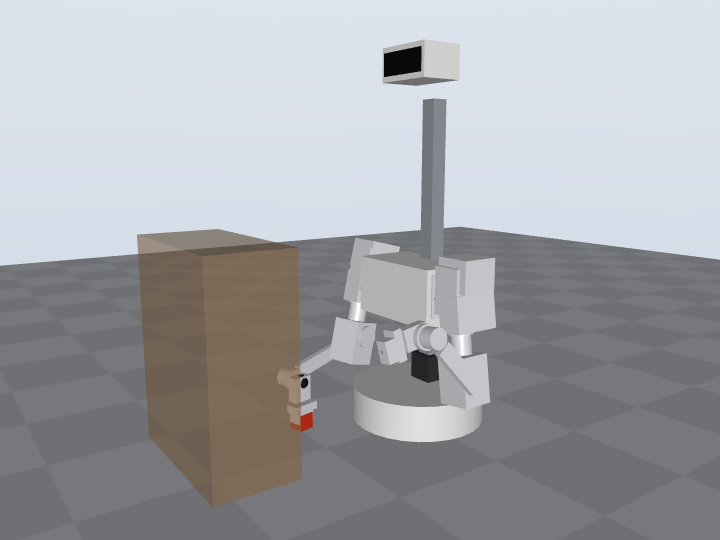
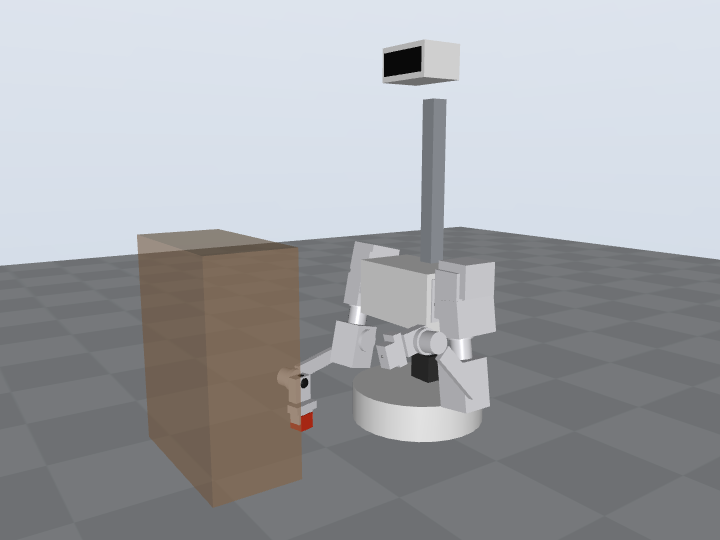
Loop 33: yaw range +-150 -> +-70 deg (reach 99%, bimanual 4/4, margin 1.52x kept); yaw crossed in torsion over 0.24 m; cable routing 6/6; scorecard 39/1
Claude-Session: https://claude.ai/code/session_01RwSoTh3JZTTiPE9Ryxfm6D

diff --git a/rnd/harness.py b/rnd/harness.py
@@ -34,7 +34,9 @@ JOINTS = [
     # pitch: bundle from the torso e-tray through the pitch shaft bore (Ø30) to the detach plug on the ferrule
     ("shoulder pitch", 260, 0.20, (22, 60), "inside the torso, around the pitch shaft between the bracket and the torso wall"),
     ("shoulder roll", 115, 0.10, (22, 50), "roll link, around the roll shaft between the walls and the clevis arms"),
-    ("upper-arm yaw", 300, 0.20, (0, 0), "NO ROOM today: the belt runs between the yaw plates, and the plates sit 2 mm from the roll pulley and the arm flange"),
+    # loop 33: yaw limited to ±70° (reach 99 % and bimanual 4/4 unchanged; ±60° loses 3 of 4 bimanual tasks). The bundle
+    # twists in torsion between a clamp at the roll-link top and one on the elbow-housing floor: free length ≈ 0.24 m
+    ("upper-arm yaw", 140, 0.24, (0, 0), "torsion: clamp at the roll-link top and on the elbow-housing floor (yaw shaft + neck + housing run); no spiral (no room: belt between the yaw plates)"),
     ("elbow", 150, 0.13, (22, 50), "elbow housing, +Y side, between cassette plate B (y 26) and the +Y wall (y 53)"),
     ("wrist pitch", 220, 0.06, (16, 30), "wrist can end, around the DM-J4310 (Ø57 can: little room)"),
     ("wrist roll", 360, 0.03, (14, 24), "palm, around the STS3215 wrist-roll servo"),

diff --git a/rnd/electrical.py b/rnd/electrical.py
@@ -92,7 +92,7 @@ def report(d=BASELINE):
           "**Cable routing (loop 32, rnd/harness.py):** torsion through the short shaft bores can't absorb the joint ranges (cable rated ~±360°/m). "
           "Every joint crossing uses a **clock-spring spiral** (S ≈ 0.6 m) in an annular cavity around the joint axis. No slip rings. "
           "D12 keeps the stiffest cable at Ø2.2 mm: the wrist camera is MIPI-CSI on a flat-flex through the wrist, with a USB bridge on the forearm. "
-          "Open: the yaw joint has no spiral cavity yet (see the queue). See [harness.md](harness.md)."]
+          "The yaw (limited to ±70°, loop 33) is crossed in torsion over ≈ 0.24 m between clamps. See [harness.md](harness.md)."]
     return "\n".join(L), cont, peak
 
 

diff --git a/rnd/twin.py b/rnd/twin.py
@@ -24,7 +24,7 @@ from .params import BASELINE, Design, act  # noqa: E402
 JR = {  # joint ranges (deg). Conventions: arm hangs straight down at 0.
     # pitch about +Y: NEGATIVE swings the arm forward/up.  roll: positive = abduct outward.
     # elbow about +Y: NEGATIVE bends the forearm forward.
-    "pitch": (-200, 60), "roll": (-15, 100), "yaw": (-150, 150),
+    "pitch": (-200, 60), "roll": (-15, 100), "yaw": (-70, 70),          # yaw ±150 → ±70 (loop 33, D12: torsion crossing; reach 99 %, bimanual 4/4 kept)
     "elbow": (-150, 0), "wpitch": (-110, 110), "wroll": (-180, 180)}
 
 

diff --git a/docs/rnd/spring.md b/docs/rnd/spring.md
@@ -2,17 +2,17 @@
 
 6000 random right-arm poses across the full joint ranges (MuJoCo twin, static). A pitch-only balancer τ = K·sin(pitch) (zero-free-length spring + cable: Anglepoise / Herder gravity balancing) is fitted to the arm's own weight.
 
-**Design K = 4.50 N·m** (spring torque at the horizontal arm; `params.arm.spring_k_nm`). A least-squares fit to the bare arm gives 4.26 N·m; a K sweep showed 4.0 minimises the 95th-percentile motor torque for a 0.5 kg typical payload (0.5 kg: 5.2 N·m; 1 kg: 7.3 N·m). The spring preload is screw-adjustable (Anglepoise precedent), so K can be re-tuned per task.
+**Design K = 4.50 N·m** (spring torque at the horizontal arm; `params.arm.spring_k_nm`). A least-squares fit to the bare arm gives 4.06 N·m; a K sweep showed 4.0 minimises the 95th-percentile motor torque for a 0.5 kg typical payload (0.5 kg: 5.2 N·m; 1 kg: 7.3 N·m). The spring preload is screw-adjustable (Anglepoise precedent), so K can be re-tuned per task.
 
 | Motor torque needed at the pitch joint | 95th percentile | Worst pose |
 |---|---|---|
 | No spring, 1 kg payload | 12.0 N·m | 16.2 N·m |
-| Spring, arm only | 4.3 N·m | 7.9 N·m |
-| **Spring, 1 kg payload** | **8.6 N·m** | **11.7 N·m** |
+| Spring, arm only | 4.4 N·m | 7.3 N·m |
+| **Spring, 1 kg payload** | **8.5 N·m** | **11.7 N·m** |
 | Joint capacity (GIM6010-8 × 3.0 belt), rated / peak | 14.2 | 31.3 |
 
-The spring cancels **40%** of the arm's self-weight torque at the 95th percentile (arm_sizing assumed 85 % everywhere).
-Margin with payload: rated / 95th pct **1.66×**, peak / worst pose **2.67×**.
+The spring cancels **38%** of the arm's self-weight torque at the 95th percentile (arm_sizing assumed 85 % everywhere).
+Margin with payload: rated / 95th pct **1.67×**, peak / worst pose **2.67×**.
 
 ## Every arm joint over the whole workspace (1 kg payload, static, balancer on)
 
@@ -20,10 +20,10 @@ The planar check in [arm sizing](arm_sizing.md) only looks at a straight horizon
 
 | Joint | Actuator × ratio | Need: 95th pct / worst (N·m) | Rated / peak | Margin rated/p95 | Margin peak/worst |
 |---|---|---|---|---|---|
-| shoulder_pitch | GIM6010-8 × 3 | 8.5 / 11.6 | 14.2 / 31.3 | 1.68 | 2.70 ✅ |
-| shoulder_roll | GIM6010-8 × 4 | 12.6 / 16.3 | 19.0 / 41.8 | 1.50 | 2.56 ✅ |
-| upper_yaw | GIM6010-8 × 2 | 5.3 / 7.0 | 9.5 / 20.9 | 1.80 | 2.99 ✅ |
+| shoulder_pitch | GIM6010-8 × 3 | 8.6 / 12.1 | 14.2 / 31.3 | 1.66 | 2.60 ✅ |
+| shoulder_roll | GIM6010-8 × 4 | 12.5 / 16.3 | 19.0 / 41.8 | 1.52 | 2.56 ✅ |
+| upper_yaw | GIM6010-8 × 2 | 5.1 / 7.0 | 9.5 / 20.9 | 1.84 | 3.00 ✅ |
 | elbow | GIM6010-8 × 2 | 6.2 / 7.0 | 9.5 / 20.9 | 1.54 | 2.99 ✅ |
-| wrist_pitch | DM-J4310-2EC_V1.1 × 1 | 1.7 / 1.8 | 3.0 / 7.0 | 1.74 | 3.86 ✅ |
+| wrist_pitch | DM-J4310-2EC_V1.1 × 1 | 1.7 / 1.8 | 3.0 / 7.0 | 1.73 | 3.86 ✅ |
 
 **Loop 5 change:** upper-arm yaw DM-J4310 direct (rated/p95 0.65×, ❌) → **GIM6010-8 × 2 belt**. It's cheaper (~$70 per arm), backdrivable, the same part as the other big joints, and adds +0.29 kg per arm. Considered: DM-J4340P direct (1.96×, +70 g, +$29, but 40:1 gearing is barely backdrivable).

diff --git a/docs/rnd/twin.md b/docs/rnd/twin.md
@@ -4,13 +4,13 @@ Model generated from `rnd/params.py`: arm 0.3+0.28+0.15 m, wrist ±120°, should
 
 | Target | Reach coverage | Tip margin per layout (mm / max base accel m/s²) |
 |---|---|---|
-| counter, angled 45° grasp (z 0.95) | 100% | X wheel-fwd R.21 (chosen): 73 / 1.3; X edge-fwd R.21: 63 / 1.1; kiwi R.21 (rejected): 44 / 0.8 |
-| floor pickup (z 0.03, gripper down) | 100% | X wheel-fwd R.21 (chosen): 77 / 2.0; X edge-fwd R.21: 62 / 1.6; kiwi R.21 (rejected): 46 / 1.2 |
-| dishwasher low rack (z 0.20, down) | 97% | X wheel-fwd R.21 (chosen): 64 / 1.5; X edge-fwd R.21: 50 / 1.2; kiwi R.21 (rejected): 38 / 0.9 |
-| table top (z 0.78, down) | 98% | X wheel-fwd R.21 (chosen): 69 / 1.1; X edge-fwd R.21: 58 / 0.9; kiwi R.21 (rejected): 41 / 0.7 |
-| counter top-down only (z 0.95) [info: counters use top-down OR 45°, see D4b] | 60% | X wheel-fwd R.21 (chosen): 69 / 1.1; X edge-fwd R.21: 58 / 0.9; kiwi R.21 (rejected): 41 / 0.7 |
-| shelf (z 1.20, horizontal) | 100% | X wheel-fwd R.21 (chosen): 83 / 1.3; X edge-fwd R.21: 70 / 1.1; kiwi R.21 (rejected): 51 / 0.8 |
-| high shelf (z 1.40, horizontal) | 100% | X wheel-fwd R.21 (chosen): 89 / 1.3; X edge-fwd R.21: 80 / 1.2; kiwi R.21 (rejected): 55 / 0.8 |
+| counter, angled 45° grasp (z 0.95) | 100% | X wheel-fwd R.21 (chosen): 73 / 1.3; X edge-fwd R.21: 62 / 1.1; kiwi R.21 (rejected): 44 / 0.8 |
+| floor pickup (z 0.03, gripper down) | 100% | X wheel-fwd R.21 (chosen): 76 / 2.1; X edge-fwd R.21: 62 / 1.7; kiwi R.21 (rejected): 46 / 1.2 |
+| dishwasher low rack (z 0.20, down) | 97% | X wheel-fwd R.21 (chosen): 64 / 1.6; X edge-fwd R.21: 50 / 1.2; kiwi R.21 (rejected): 38 / 0.9 |
+| table top (z 0.78, down) | 98% | X wheel-fwd R.21 (chosen): 69 / 1.1; X edge-fwd R.21: 58 / 0.9; kiwi R.21 (rejected): 41 / 0.6 |
+| counter top-down only (z 0.95) [info: counters use top-down OR 45°, see D4b] | 38% | X wheel-fwd R.21 (chosen): 69 / 1.1; X edge-fwd R.21: 58 / 0.9; kiwi R.21 (rejected): 41 / 0.6 |
+| shelf (z 1.20, horizontal) | 100% | X wheel-fwd R.21 (chosen): 81 / 1.3; X edge-fwd R.21: 71 / 1.1; kiwi R.21 (rejected): 51 / 0.8 |
+| high shelf (z 1.40, horizontal) | 100% | X wheel-fwd R.21 (chosen): 88 / 1.3; X edge-fwd R.21: 83 / 1.2; kiwi R.21 (rejected): 54 / 0.8 |
 
 ## Two-handed tasks (shared lift, both arms, collision-free)
 

diff --git a/docs/rnd/SCORECARD.md b/docs/rnd/SCORECARD.md
@@ -14,10 +14,10 @@
 | R7 runtime (estimated duty cycle) | 3.4 h | ≥ 2 h | ✅ |
 | R8 cost, parametric estimate (superseded by the BOM row) | $2,912 (actuators $1,617 ×21) | info | — |
 | R9 KX interface slip torque / actuator peak (min) | 1.16× | ≥ 1.1× | ✅ |
-| R2 min joint margin, whole workspace (rated / 95th pct, 1 kg) | 1.50× | ≥ 1.5× | ✅ |
+| R2 min joint margin, whole workspace (rated / 95th pct, 1 kg) | 1.52× | ≥ 1.5× | ✅ |
 | R2 min joint margin, whole workspace (peak / worst pose) | 2.56× | ≥ 1.5× | ✅ |
 | R2 hand sag from bone bending, 1 kg straight out (static) | 1.8 mm | ≤ 2 mm | ✅ |
-| R2 belts: sustained pull vs working rating / peak vs ultimate (min) | 1.3× / 5.1× | ≥ 1.2× / ≥ 3× | ✅ |
+| R2 belts: sustained pull vs working rating / peak vs ultimate (min) | 1.4× / 5.1× | ≥ 1.2× / ≥ 3× | ✅ |
 | R3 arm-detach clamp: lift-off moment / need (×1.5 dynamic) | 1.9× | ≥ 1.5× | ✅ |
 | R12 socket bearing static safety (min) | 4.0 | ≥ 2 | ✅ |
 | R2 hand positioning error, joint chain RSS at 0.6 m (with joint-side encoders; without) | 0.9 mm (4.0) | ≤ 2 mm | ✅ |
@@ -38,7 +38,7 @@
 | Monte Carlo fetch task (derate, mass, friction, μ, calib, can, offset) | 100/100 (95 % LB 96%), tip ≥ 68 mm | LB ≥ 90 %, tip ≥ 30 mm | ✅ |
 | FEA critical printed parts: min margin vs 12 MPa (across layers) | 3.2× (8 cases, max disp 1.91 mm) | ≥ 1.5×, disp < 2 mm | ✅ |
 | Self-docking Monte Carlo (±0.3 m / ±20° start, pose-estimate error, wheel slip) | 100/100 (95 % LB 96%), worst pad error 19 mm | LB ≥ 90 %, within ±25 mm | ✅ |
-| Cable routing: joints the arm bundle can cross over their full range (rnd/harness.py) | 5/6 | all | ❌ |
+| Cable routing: joints the arm bundle can cross over their full range (rnd/harness.py) | 6/6 | all | ✅ |
 | Threshold/carpet Monte Carlo (5–15 mm, heading ±10°, 0.12–0.18 m/s, μ, mass, COM) | 55/55 (95 % LB 93%); 15–18 mm: 25/25 | LB ≥ 90 % | ✅ |
 | KX Monte Carlo (tolerances, μ, spring, 10-year PETG creep): slip below rated / below peak; twist p95 | 0.00% / 26%; 2.9 N·m | ≤ 0.1 % below rated; twist ≤ 3 N·m | ✅ |
 | Thermal: hottest motor, non-stop task day (MC worst corner) | 55 °C | ≤ 100 °C | ✅ |

diff --git a/docs/rnd/harness.md b/docs/rnd/harness.md
@@ -13,13 +13,13 @@ joint (all cable data ESTIMATE until the datasheets are in hand):
 The joint ranges come from the twin (rnd/twin.py JR). The free lengths and the cavity sizes are read off the CAD
 (module dimensions; ESTIMATE ± 10 mm).
 
-**Joints the arm bundle can cross: 5/6 with D12** (CSI flat-flex through the wrist + slim Ø2.2 USB from the forearm); 3/6 with the camera's stock Ø3.8 USB cable.
+**Joints the arm bundle can cross: 6/6 with D12** (CSI flat-flex through the wrist + slim Ø2.2 USB from the forearm); 4/6 with the camera's stock Ø3.8 USB cable.
 
 | Joint | Range | Torsion: free length / needed | Spiral cavity r_in–r_out (mm) | Bend r (10×OD) | Spiral capacity (S = 0.6 m) | Method (D12) | Stock USB |
 |---|---|---|---|---|---|---|---|
 | shoulder pitch | 260° | 200 / 361 mm ❌ | 22–60 | 22 mm | 990° (need 312°) | clock spring ✅ | ✅ 332° |
 | shoulder roll | 115° | 100 / 160 mm ❌ | 22–50 | 22 mm | 875° (need 138°) | clock spring ✅ | ✅ 217° |
-| upper-arm yaw | 300° | 200 / 417 mm ❌ | 0–0 | 22 mm | 0° (need 360°) | ❌ | ❌ 0° |
+| upper-arm yaw | 140° | 240 / 194 mm ✅ | 0–0 | 22 mm | 0° (need 168°) | torsion ✅ | ✅ 0° |
 | elbow | 150° | 130 / 208 mm ❌ | 22–50 | 22 mm | 875° (need 180°) | clock spring ✅ | ✅ 217° |
 | wrist pitch | 220° | 60 / 306 mm ❌ | 16–30 | 12 mm | 1003° (need 264°) | clock spring ✅ | ❌ 0° |
 | wrist roll | 360° | 30 / 500 mm ❌ | 14–24 | 12 mm | 1023° (need 432°) | clock spring ✅ | ❌ 0° |

diff --git a/docs/RND_PLAN.md b/docs/RND_PLAN.md
@@ -88,11 +88,7 @@ Each scheduled run (and any interactive session) does one **loop**:
 
 Next (fresh critique after loop 31: torque paths 21/21, module clashes 0, docking and face screen designed, every confidence Monte Carlo passing; **scorecard 38 ✅ / 1 ❌, R10 build time only**). The hourly loop works top-down:
 
-1. **Yaw cable crossing (from loop 32, blocks the routing check: 5/6).** The belt fills the space between the yaw plates, and there is no gap above or below. Evaluate against R1 reach / workspace margin:
-    - (a) a 12 mm clock-spring cassette under the yaw block (yaw_drop 0.100 → 0.112)
-    - (b) limit yaw to about ±70° (torsion over the 0.2 m neck run)
-
-    Then put the spiral cassettes in CAD at every joint (pitch, roll, elbow, wrist pitch, wrist roll).
+1. ~~Yaw cable crossing~~ *(loop 33: **yaw ±150° → ±70°**, crossed in torsion over ≈ 0.24 m between clamps. Reach 99 % and bimanual 4/4 unchanged; ±60° loses 3 of 4 bimanual tasks; the 12 mm cassette option dropped the shoulder-roll margin to 1.49×.)* Add printed yaw hard stops at ±75°.
 1b. *(Loop 32 done: rnd/harness.py analysis, D12, harness-kit segment table in harness.md.)* **Cable routing in CAD (build-enabling).** Model the harness:
     - paths through the hollow shafts (pitch Ø30, elbow Ø30, yaw Ø28 bores), service loops at each joint for its full range
     - the arm detach plug mount beside the V-band, the upper↔base coupling plug

diff --git a/docs/rnd/electrical.md b/docs/rnd/electrical.md
@@ -58,4 +58,4 @@ Typical draw is far lower: the duty-cycle power budget averages **55 W ≈ 2.5 A
 | Dock contacts (skirt at 45°, flush brass pads) | + at 60 mm, − at 100 mm, 60 × 12 mm pads, 5 A | ID pad at 40 mm → base sensor node (handshake, stop-charge command) |
 | Every joint cartridge | 2-pin JST-VH (24 V) or GH (12 V) | 4-pin JST-GH CAN/TTL daisy chain |
 
-**Cable routing (loop 32, rnd/harness.py):** torsion through the short shaft bores can't absorb the joint ranges (cable rated ~±360°/m). Every joint crossing uses a **clock-spring spiral** (S ≈ 0.6 m) in an annular cavity around the joint axis. No slip rings. D12 keeps the stiffest cable at Ø2.2 mm: the wrist camera is MIPI-CSI on a flat-flex through the wrist, with a USB bridge on the forearm. Open: the yaw joint has no spiral cavity yet (see the queue). See [harness.md](harness.md).
+**Cable routing (loop 32, rnd/harness.py):** torsion through the short shaft bores can't absorb the joint ranges (cable rated ~±360°/m). Every joint crossing uses a **clock-spring spiral** (S ≈ 0.6 m) in an annular cavity around the joint axis. No slip rings. D12 keeps the stiffest cable at Ø2.2 mm: the wrist camera is MIPI-CSI on a flat-flex through the wrist, with a USB bridge on the forearm. The yaw (limited to ±70°, loop 33) is crossed in torsion over ≈ 0.24 m between clamps. See [harness.md](harness.md).

diff --git a/docs/RND_LOG.md b/docs/RND_LOG.md
@@ -973,3 +973,17 @@ Research agent + verified listings (AliExpress prices are search snapshots, so c
 - **Finding 3 (open):** **the yaw joint has no cavity for a spiral.** The belt runs between the yaw plates, and the plates sit 2 mm from the roll pulley and the arm flange. Queue item 1 evaluates a 12 mm spiral cassette (yaw_drop +12) vs limiting yaw to ±70°, against R1.
 - **Harness kit:** segment table (lengths, connectors) in docs/rnd/harness.md.
 - **Results:** new scorecard row "cable routing 5/6" (❌) → scorecard 38 ✅ / 2 ❌. An honest new gap.
+
+## Loop 33 (2026-11-26): yaw cable crossing → yaw range ±70°
+
+- **Options compared:**
+
+  | Option | Reach | Bimanual | Shoulder-roll margin |
+  |---|---|---|---|
+  | baseline (±150°) | 99.1 % | 4/4 | 1.505× |
+  | (a) 12 mm spiral cassette (yaw_drop 0.112) | 99.1 % | — | **1.49× (fails ≥ 1.5)** |
+  | (b) yaw ±70° | 99.1 % | 4/4 | 1.516× |
+  | yaw ±60° | 99.1 % | **1/4** | — |
+
+- **Adopted (b):** twin JR yaw ±150° → **±70°**. The bundle twists between a clamp at the roll-link top and one on the elbow-housing floor: free length ≈ 0.24 m, against 0.194 m needed at ±360°/m (≈ 25 % headroom).
+- **Cable routing 5/6 → 6/6.** Queue: printed yaw hard stops at ±75°.

diff --git a/docs/rnd/belts.md b/docs/rnd/belts.md
@@ -4,9 +4,9 @@ HTD 5M, 15 mm, printed pulleys, small pulley on its own bearing hub. **Loop 13 r
 
 | Joint | Teeth | Pitch Ø small / big | Sustained pull vs working | Peak pull vs ultimate/3 | Teeth in mesh | Centre / belt length |
 |---|---|---|---|---|---|---|
-| shoulder_pitch | 20:60 (3.00:1) | 31.8 / 95.5 | 187 / 312 N → 1.7× ✅ | 691 N → 5.6× ultimate ✅ | 7.0 ✅ | 70 / 354 mm |
-| shoulder_roll | 18:72 (4.00:1) | 28.6 / 114.6 | 232 / 312 N → 1.3× ✅ | 768 N → 5.1× ultimate ✅ | 6.1 ✅ | 90 / 426 mm |
-| upper_yaw | 20:40 (2.00:1) | 31.8 / 63.7 | 174 / 312 N → 1.8× ✅ | 691 N → 5.6× ultimate ✅ | 8.7 ✅ | 80 / 313 mm |
+| shoulder_pitch | 20:60 (3.00:1) | 31.8 / 95.5 | 189 / 312 N → 1.6× ✅ | 691 N → 5.6× ultimate ✅ | 7.0 ✅ | 70 / 354 mm |
+| shoulder_roll | 18:72 (4.00:1) | 28.6 / 114.6 | 230 / 312 N → 1.4× ✅ | 768 N → 5.1× ultimate ✅ | 6.1 ✅ | 90 / 426 mm |
+| upper_yaw | 20:40 (2.00:1) | 31.8 / 63.7 | 170 / 312 N → 1.8× ✅ | 691 N → 5.6× ultimate ✅ | 8.7 ✅ | 80 / 313 mm |
 | elbow | 20:40 (2.00:1) | 31.8 / 63.7 | 204 / 312 N → 1.5× ✅ | 691 N → 5.6× ultimate ✅ | 8.5 ✅ | 70 / 294 mm |
 
 - Belt lengths round to stock sizes; eccentric bushings set the tension (loop 10).

diff --git a/docs/rnd/kx.md b/docs/rnd/kx.md
@@ -40,7 +40,7 @@ The arm comes off at the shoulder-pitch output for carrying (D1). Unlike a joint
 | Check | Need (static × 1.5) | Capacity | |
 |---|---|---|---|
 | Bending (lift-off of the face ring) | 21.6 N·m | 40.0 N·m at 1000 N preload | 1.9× ✅ |
-| Torque by face friction alone | 17.4 N·m | 10.0 N·m | 0.6× (dowels carry the rest: 7 MPa shear in Ø6 steel) |
+| Torque by face friction alone | 18.1 N·m | 10.0 N·m | 0.6× (dowels carry the rest: 7 MPa shear in Ø6 steel) |
 | Flange bearing pressure | – | 0.9 MPa on printed PETG | ✅ |
 
 The face is kinematically over-constrained (not a ball seat), so re-attachment repeats to ~0.05–0.1 mm (dowel fit), not microns. That's fine for an arm that re-homes from its absolute joint encoders; a camera check corrects any residual offset.
